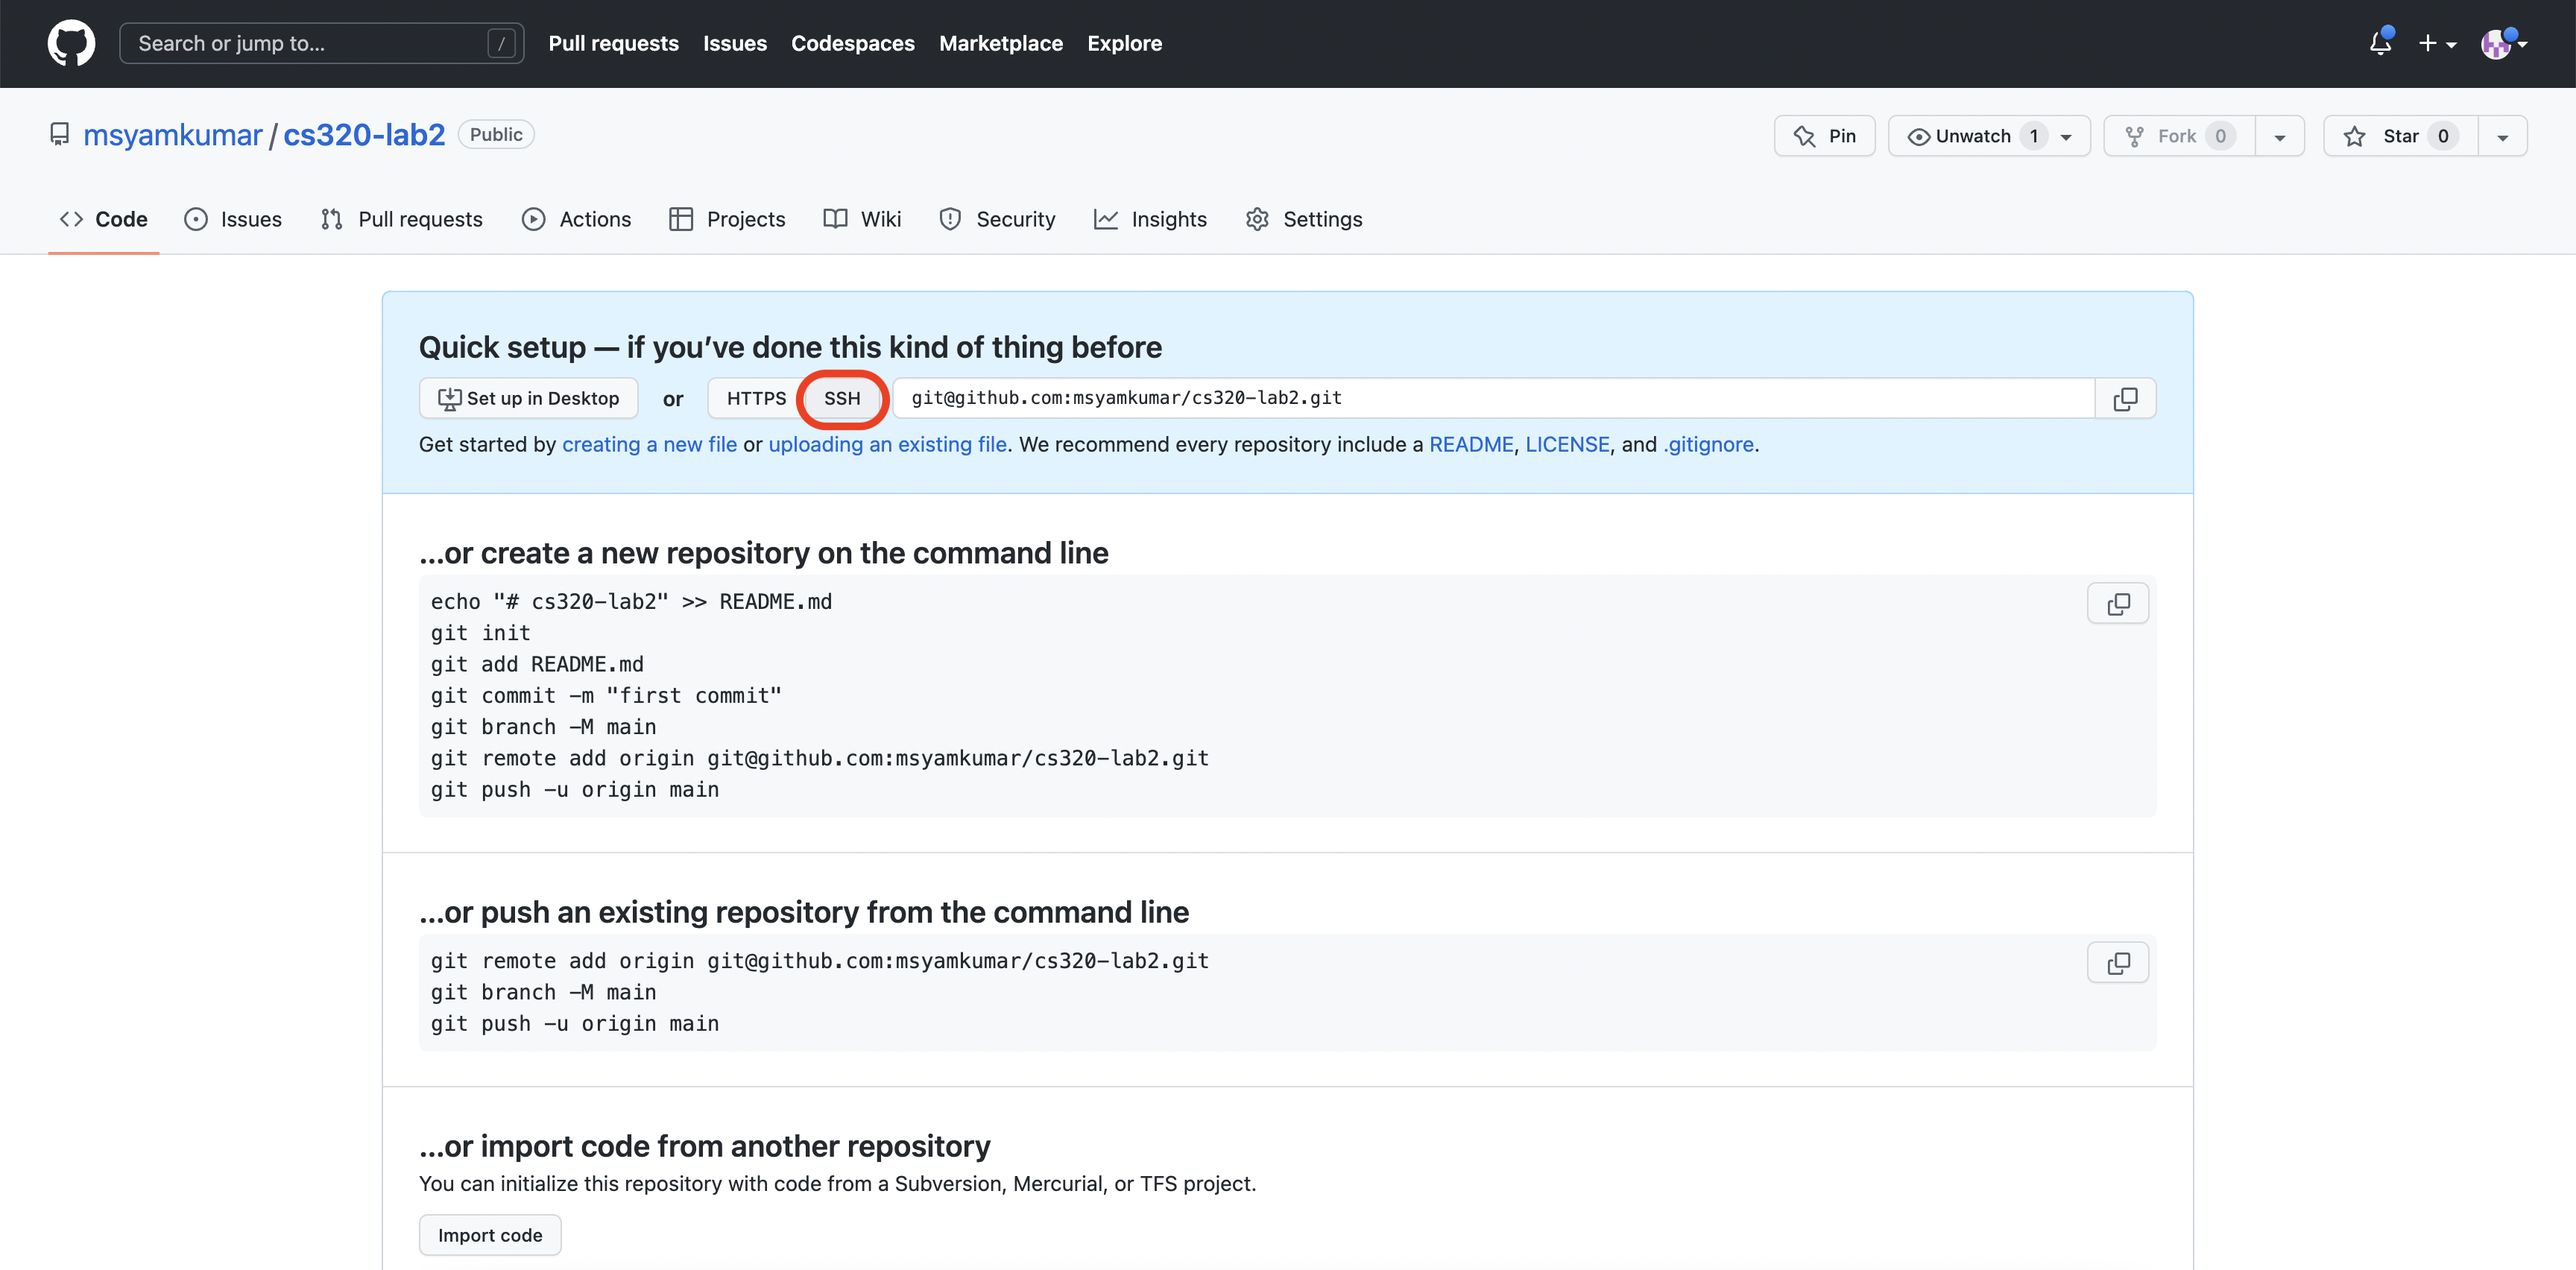
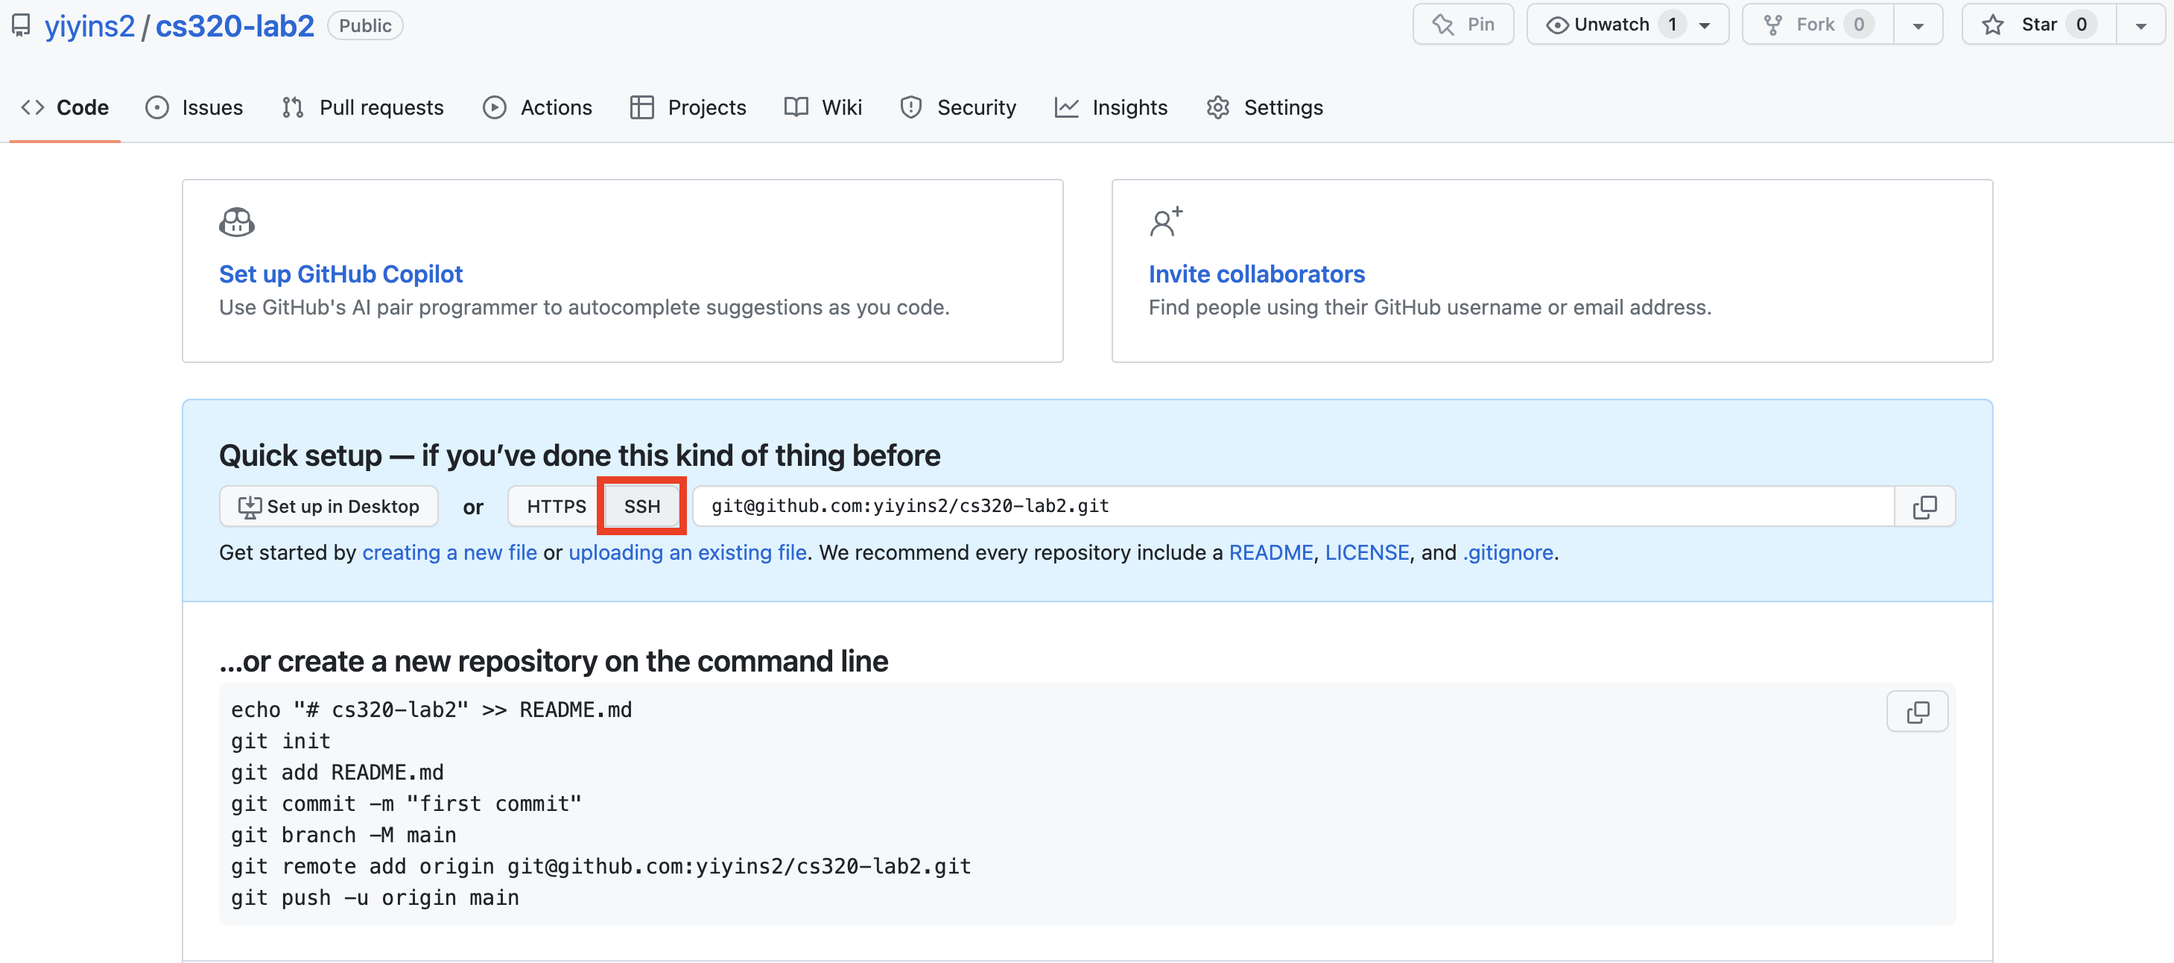
git pr

diff --git a/labs/git-pr/README.md b/labs/git-pr/README.md
@@ -57,7 +57,7 @@ that wouldn't embarrass you on a resume):
 
 <img src="1.png" width=600>
 
-**Important:** for participation credit, fill [this form](https://forms.gle/kXgwU3Cznnucjxjx9) so that we know you
+**Important:** for participation credit, fill [this form](https://forms.gle/L453Z78V8Ckt2y2U7) so that we know you
   completed this part.
 
 ## Step 2: SSH Keys
@@ -94,8 +94,8 @@ Go to https://github.com/new and create a public repo called
 
 <img src="2.png" width=800>
 
-This should create a repo at https://github.com/msyamkumar/cs320-lab2
-(with your username instead of "msyamkumar").  Go to that URL, and
+This should create a repo at https://github.com/yiyins2/cs320-lab2
+(with your username instead of "yiyins2").  Go to that URL, and
 you'll see something like this:
 
 <img src="3.png" width=1200>
@@ -122,7 +122,7 @@ git config --global user.email "your_email"
 ```
 
 Refresh the GitHub page for your repo at
-https://github.com/msyamkumar/cs320-lab2 (with your username instead
+https://github.com/yiyins2/cs320-lab2 (with your username instead
 of "msyamkumar").  You should now see the first commit, and the
 content of your README.md:
 
@@ -146,7 +146,7 @@ keyboard shortcuts (not the mouse). Do control-O to write the file.
 
 ## Step 4: Pull Request
 
-Visit this repo: https://github.com/msyamkumar/cs320-lab2-datasets.
+Visit this repo: https://github.com/yiyins2/cs320-lab2-datasets.
 It contains a list of datasets in a few different .txt files.  For
 this exercise, you'll add to the list, so spend a few minutes Googling
 for an interesting dataset to add.
@@ -161,14 +161,14 @@ change to a site (like the one above), the process goes like this:
 4. push those changes to your own fork
 5. make a formal request, called a "pull request", for the person of the original repo to integrate the changes on your fork into their codebase
 
-Let's start.  Go back to the https://github.com/msyamkumar/cs320-lab2-datasets page.  Click code, and copy the SSH address.
+Let's start.  Go back to the https://github.com/yiyins2/cs320-lab2-datasets page.  Click code, and copy the SSH address.
 
 <img src="6.png" width=1000>
 
 In the terminal, run this (the part after "git clone" was pasted from what you just copied):
 
 ```
-git clone https://github.com/msyamkumar/cs320-lab2-datasets.git
+git clone 
 cd cs320-lab2-datasets
 ls
 ```
@@ -188,7 +188,7 @@ Going back to the repo on GitHub, click the "fork" button, copying the repo to y
 
 <img src="7.png" width=400>
 
-Go to your newly forked repo, which is still named "cs320-lab2-datasets" like the original, but exists under your account (same URL as https://github.com/msyamkumar/cs320-lab2-datasets, but with "msyamkumar" replaced with your own user name):
+Go to your newly forked repo, which is still named "cs320-lab2-datasets" like the original, but exists under your account (same URL as https://github.com/yiyins2/cs320-lab2-datasets, but with "yiyins2" replaced with your own user name):
 
 <img src="8.png" width=1000>
 
@@ -198,8 +198,8 @@ Now, go back to the terminal, in the directory where you cloned the original rep
 Run `git remote -v`, and you'll see something like this:
 
 ```
-origin	https://github.com/msyamkumar/cs320-lab2-datasets.git (fetch)
-origin	https://github.com/msyamkumar/cs320-lab2-datasets.git (push)
+origin	https://github.com/yiyins2/cs320-lab2-datasets.git (fetch)
+origin	https://github.com/yiyins2/cs320-lab2-datasets.git (push)
 ```
 
 A "remote" is the name for a link to a repo on GitHub, or some other
@@ -217,8 +217,8 @@ You'll see something like this:
 ```
 mycopy	git@github.com:your-account/cs320-lab2-datasets.git (fetch)
 mycopy	git@github.com:your-account/cs320-lab2-datasets.git (push)
-origin	https://github.com/msyamkumar/cs320-lab2-datasets.git (fetch)
-origin	https://github.com/msyamkumar/cs320-lab2-datasets.git (push)
+origin	https://github.com/yiyins2/cs320-lab2-datasets.git (fetch)
+origin	https://github.com/yiyins2/cs320-lab2-datasets.git (push)
 ```
 
 Now, if you want to sync the last commit you made on the main branch
@@ -239,7 +239,7 @@ changes back to the person who owns the original repo.  Click that.
 
 Click "Create pull request".  This gives you the option to type a note to the person who will review your request, below which there is another "Create pull request" button, that you should click again.
 
-If you go to https://github.com/msyamkumar/cs320-lab2-datasets/pulls,
+If you go to https://github.com/yiyins2/cs320-lab2-datasets/pulls,
 you'll see your pull request, along with all the others.  The person
 owning the original repo will review these, deciding which suggested
 changes to integrate and which to reject.
